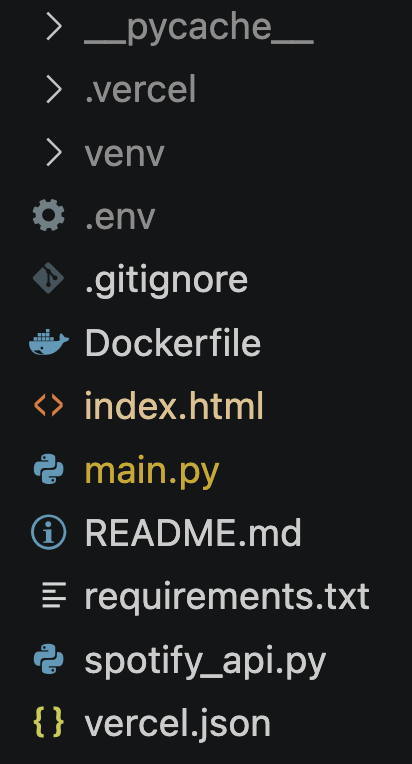
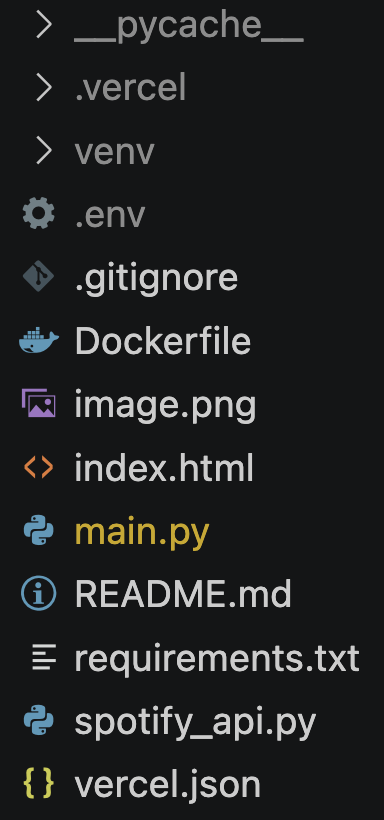
EDIT : README 수정

diff --git a/README.md b/README.md
@@ -49,7 +49,7 @@ uvicorn backend.main:app --reload
 
 ## 파일 구조
 
-<img src="image-1.png" alt="파일 구조" width="200px">
+<img src="image.png" alt="파일 구조" width="200px">
 
 ## 만든 사람
 - [HWANG JUN HYEOK](https://www.instagram.com/wnsgurjh_/)
